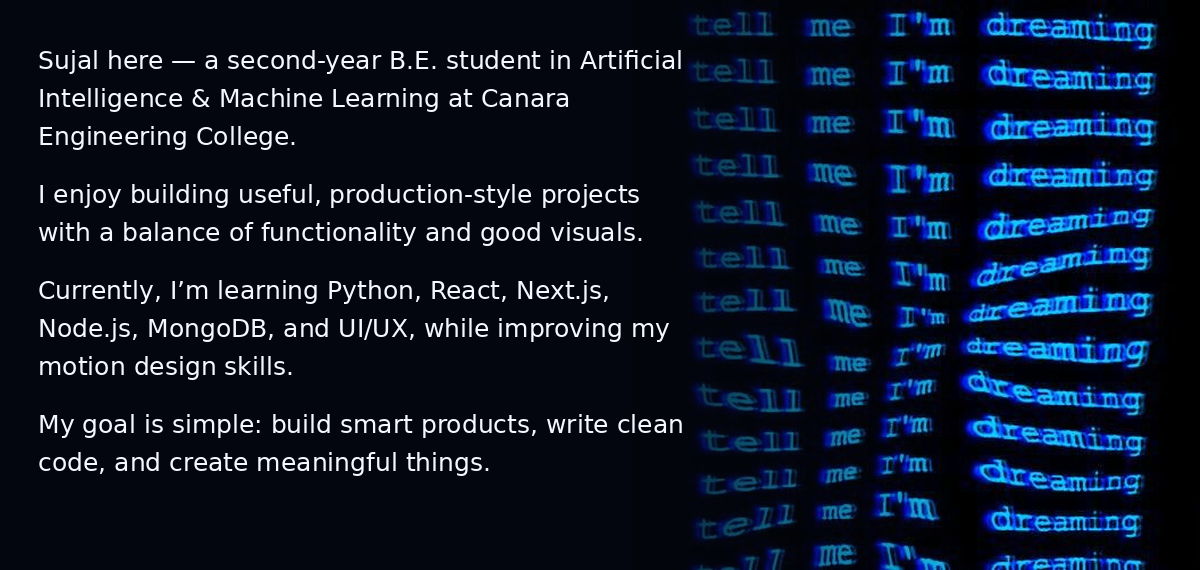
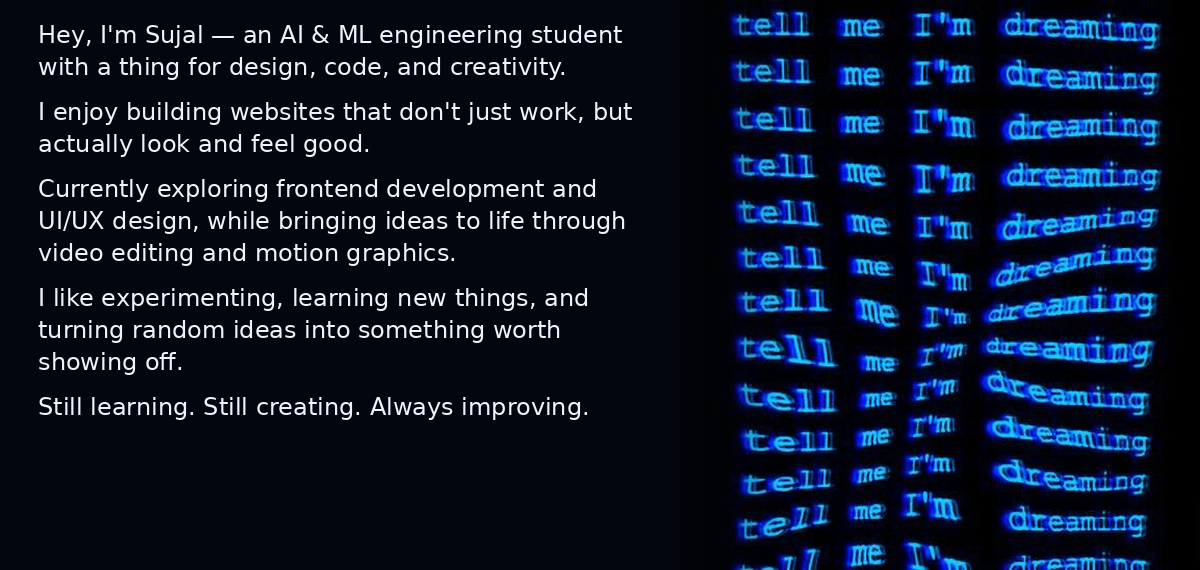
Update GitHub profile design

Changed region(s): [[0.0308, 0.0, 0.9867, 1.0], [0.0308, 0.2982, 0.555, 0.5965], [0.0308, 0.6263, 0.2467, 0.6561]]

diff --git a/README.md b/README.md
@@ -4,18 +4,16 @@
 
 # Hi, I'm Sujal
 
-<a href="#-about-me"><img src="https://img.shields.io/badge/AI%2FML-Developer-7C3AED?style=for-the-badge&labelColor=111827&color=4F46E5" alt="AI ML Developer"/></a>
-<a href="#-tech-stack"><img src="https://img.shields.io/badge/Web-Developer-2563EB?style=for-the-badge&labelColor=111827&color=1D4ED8" alt="Web Developer"/></a>
-<a href="#-tech-stack"><img src="https://img.shields.io/badge/UI%2FUX-Designer-8B5CF6?style=for-the-badge&labelColor=111827&color=7C3AED" alt="UI UX Designer"/></a>
-<a href="#-tech-stack"><img src="https://img.shields.io/badge/Creative-Editor-6D28D9?style=for-the-badge&labelColor=111827&color=9333EA" alt="Creative Editor"/></a>
-<br/>
-<a href="https://www.google.com/maps/place/Mangalore"><img src="https://img.shields.io/badge/Mangalore-Karnataka_India-4338CA?style=for-the-badge&labelColor=111827&color=7C3AED" alt="Mangalore Karnataka India"/></a>
+<a href="#-tech-stack"><img src="https://img.shields.io/badge/Aspiring-UI%2FUX_Designer-9333EA?style=for-the-badge&labelColor=111827" alt="Aspiring UI/UX Designer" /></a>
+<a href="#-tech-stack"><img src="https://img.shields.io/badge/Frontend-Developer-2563EB?style=for-the-badge&labelColor=111827" alt="Frontend Developer" /></a>
+<a href="#-tech-stack"><img src="https://img.shields.io/badge/Creative-Editor-7C3AED?style=for-the-badge&labelColor=111827" alt="Creative Editor" /></a>
+<a href="https://www.google.com/maps/search/?api=1&query=Mangalore%2C%20Karnataka%2C%20India"><img src="https://img.shields.io/badge/Location-Mangalore%2C_Karnataka-4F46E5?style=for-the-badge&labelColor=111827" alt="Location: Mangalore, Karnataka" /></a>
 
 <br/>
 
-`Just Build Cool Stuff`
+<img src="https://readme-typing-svg.demolab.com?font=JetBrains+Mono&weight=600&size=25&duration=2600&pause=1100&color=60A5FA&center=true&vCenter=true&width=760&height=64&lines=If+it+compiles%2C+it%27s+staying.;Just+build+cool+stuff.;Code.+Build.+Improve.+Repeat.;Code+like+a+menace." alt="Animated motto: coding and creativity" />
 
-Building practical AI tools, clean web apps, and polished digital experiences.
+Somewhere between pixels and code, turning ideas into digital experiences worth exploring.
 
 </div>
 

diff --git a/SETUP.md b/SETUP.md
@@ -19,3 +19,7 @@ Coding Profiles: the four badges currently link to platform homepages. Replace t
 
 
 Update: the separate role strip has been removed. The top intro now contains clickable role/location buttons inside the main header area. Replace the placeholder Gmail and LinkedIn URLs in README.md before publishing.
+
+About Me text is baked into assets/about-me-bg.png and has been rewritten.
+
+Final update: intro tagline changed to approved text; About Me artwork refreshed to use approved shorter personal description. Gmail and LinkedIn are placeholders until provided.
